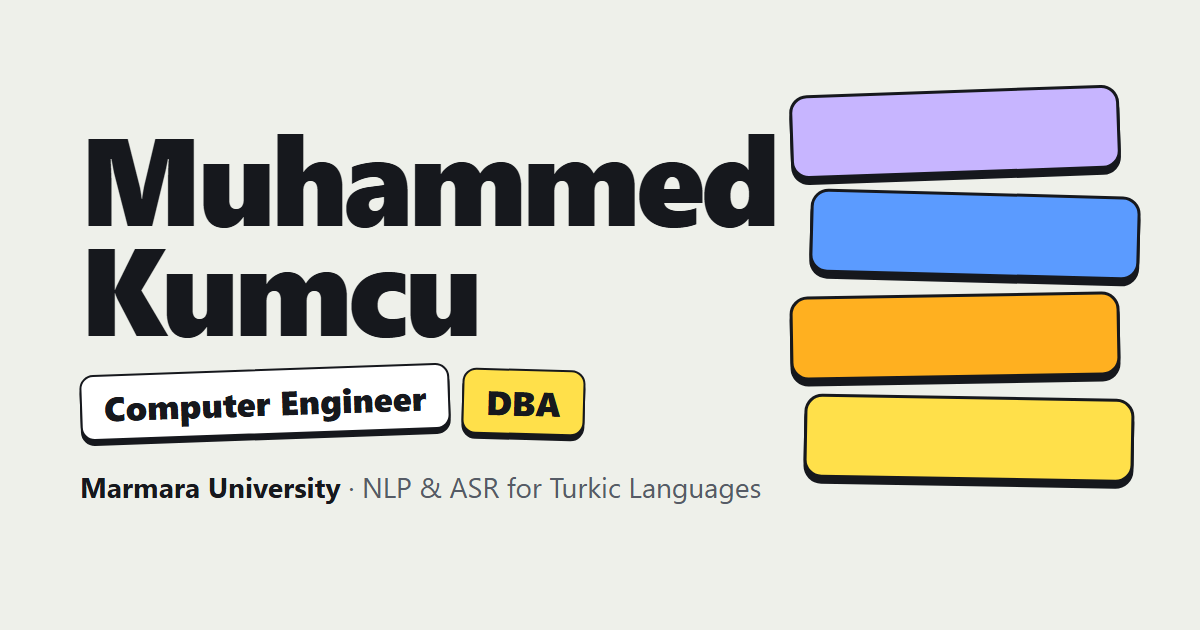
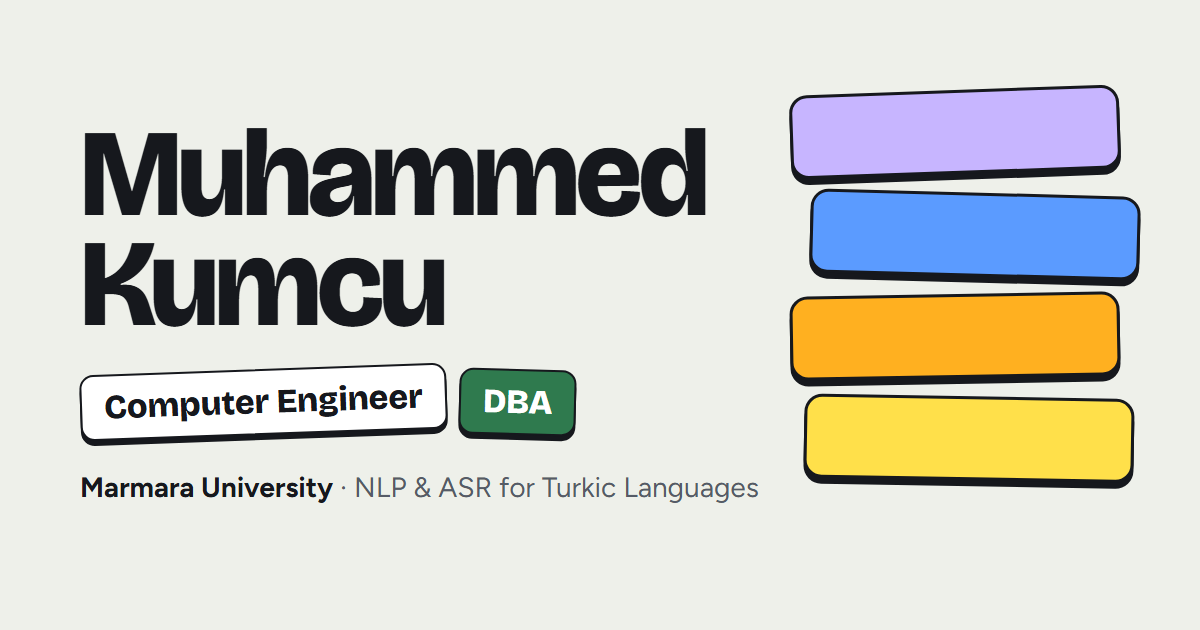
Green DBA sticker

Changed region(s): [[0.0617, 0.181, 0.6475, 0.5429], [0.0617, 0.754, 0.6475, 0.8143], [0.0925, 0.573, 0.4933, 0.6937]]

diff --git a/styles.css b/styles.css
@@ -6,7 +6,7 @@
 @font-face{font-family:'JetBrains Mono';font-style:normal;font-weight:500;font-display:swap;src:url(fonts/jetbrains-mono-latin.woff2) format('woff2');unicode-range:U+0000-00FF, U+0131, U+0152-0153, U+02BB-02BC, U+02C6, U+02DA, U+02DC, U+0304, U+0308, U+0329, U+2000-206F, U+20AC, U+2122, U+2191, U+2193, U+2212, U+2215, U+FEFF, U+FFFD}/* Muhammed Kumcu — "Etiket": printed stickers. Ink outline and a hard offset shadow on everything you can press; each project has its own sticker colour. */
 :root{
   --paper:#EEF0EA; --card:#FFFFFF; --ink:#16181D; --muted:#555B66; --line:#16181D; --on-fill:#16181D;
-  --c-asr:#5B9BFF; --c-morph:#2BC48A; --c-teke:#FFB020; --c-pulsar:#FFE04A; --c-paper:#C7B5FF;
+  --c-asr:#5B9BFF; --c-morph:#2BC48A; --c-teke:#FFB020; --c-pulsar:#FFE04A; --c-paper:#C7B5FF; --c-dba:#2F7A4E; --on-dba:#FFFFFF;
   --display:'Bricolage Grotesque',system-ui,sans-serif; --sans:'Figtree',system-ui,-apple-system,'Segoe UI',sans-serif; --mono:'JetBrains Mono',ui-monospace,Consolas,monospace;
   --shadow:0 4px 0 var(--line);
 }
@@ -30,7 +30,7 @@ h1{font-family:var(--display);font-weight:800;font-size:clamp(52px,8.6vw,104px);
 .tags{display:flex;flex-wrap:wrap;gap:12px;align-items:center}
 .stk{font:800 clamp(18px,2.2vw,24px)/1 var(--display);border:2px solid var(--ink);border-radius:14px;padding:10px 16px;box-shadow:var(--shadow);display:inline-block}
 .stk.ce{background:var(--card);color:var(--ink);transform:rotate(-2deg)}
-.stk.dba{background:var(--c-pulsar);color:var(--on-fill);transform:rotate(1.5deg)}
+.stk.dba{background:var(--c-dba);color:var(--on-dba);transform:rotate(1.5deg)}
 .sub{font-size:17px;color:var(--muted);margin:0}
 .sub b{color:var(--ink);font-weight:700}
 .lede{font-size:19px;max-width:44ch;margin:0}
